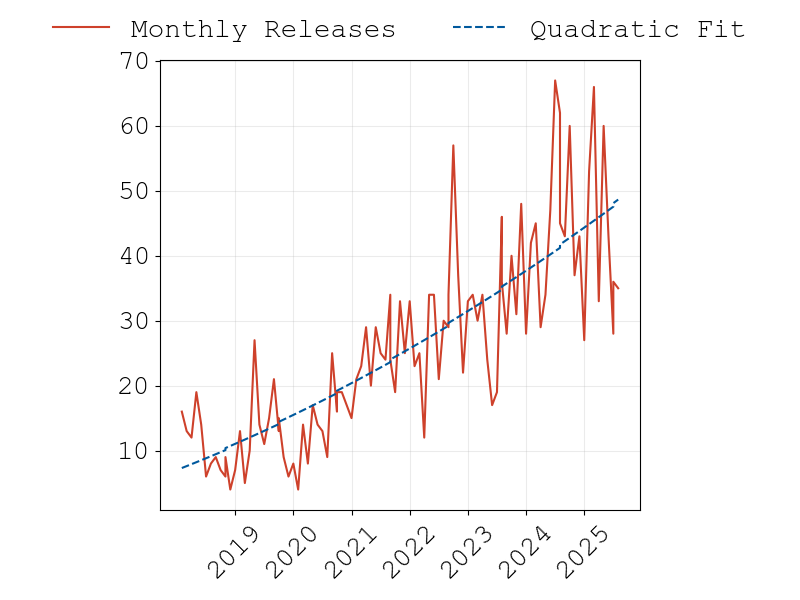
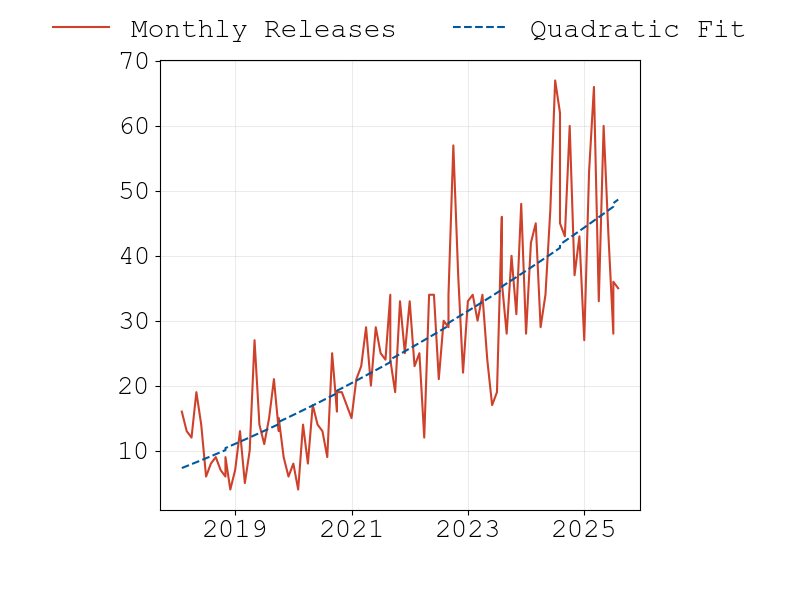
only plot every 2nd year and without angle

diff --git a/figures/crates-io-release-numbers.py b/figures/crates-io-release-numbers.py
@@ -26,7 +26,7 @@ if __name__ == "__main__":
     newlabels = []
     for tick, label in zip(ticks, labels):
         split = label.get_text().split("/")
-        if split[0] == "1":
+        if split[0] == "1" and int(split[1]) % 2 == 1:
             newticks.append(tick)
             newlabels.append(split[1])
 
@@ -47,7 +47,7 @@ if __name__ == "__main__":
     ax.plot(x[1:], y_fit, color="#00599d", linestyle="--", label="Quadratic Fit")
     # ax.fill_between(x[1:], y_fit_lower, y_fit_upper, color="#00599d", alpha=0.2)
 
-    ax.set_xticks(newticks, newlabels, rotation=45)
+    ax.set_xticks(newticks, newlabels)
 
     ax.legend(
         ncol=2,
